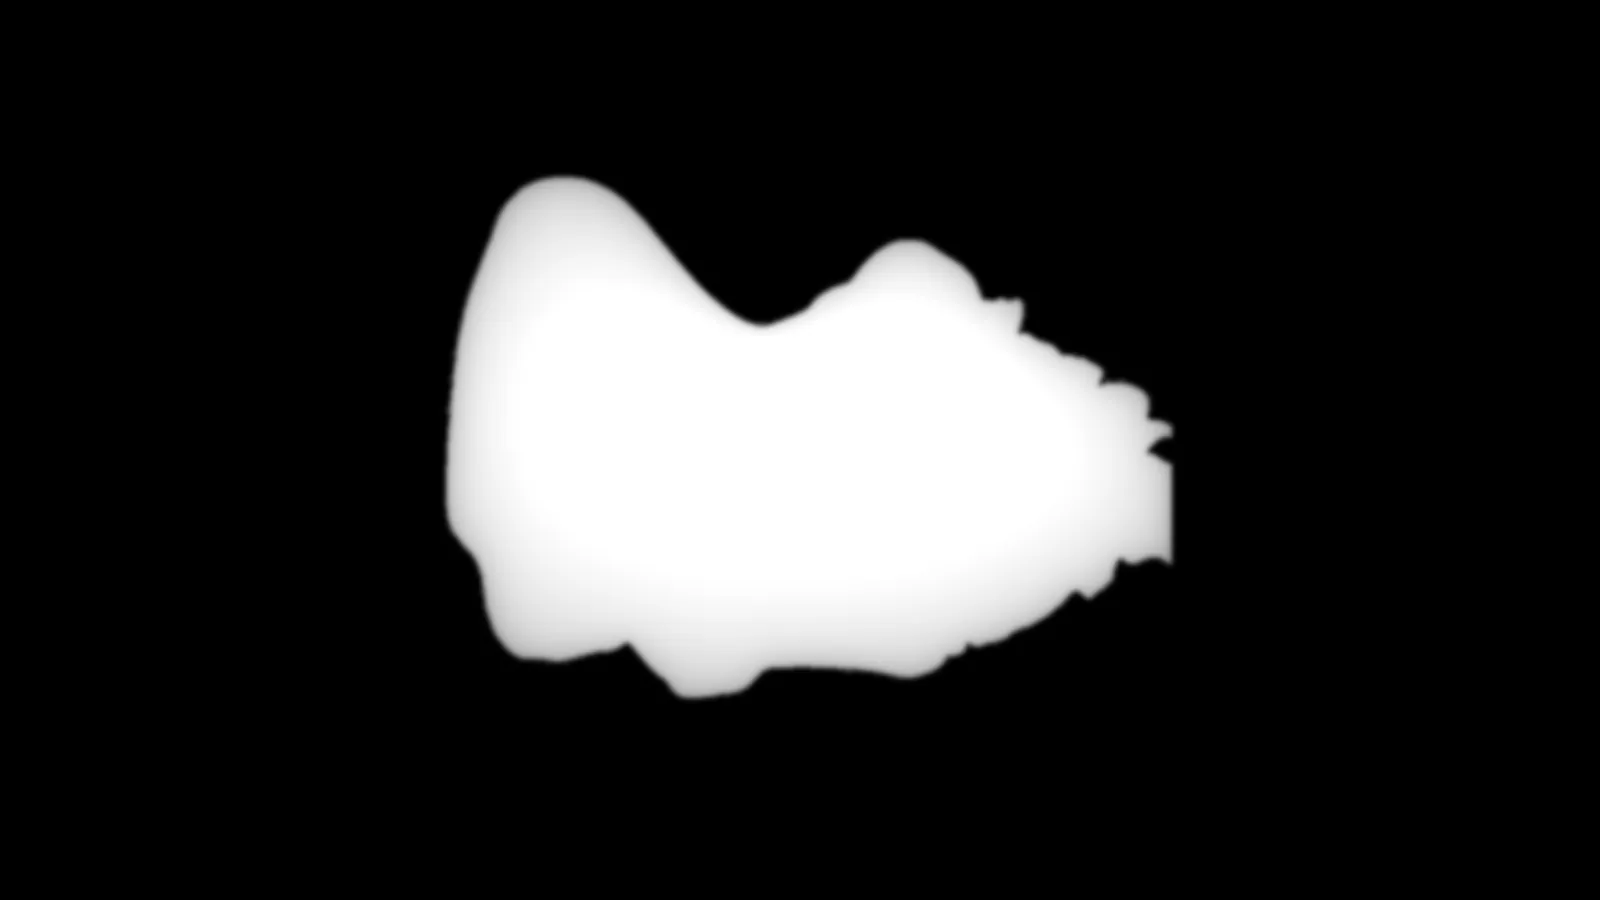
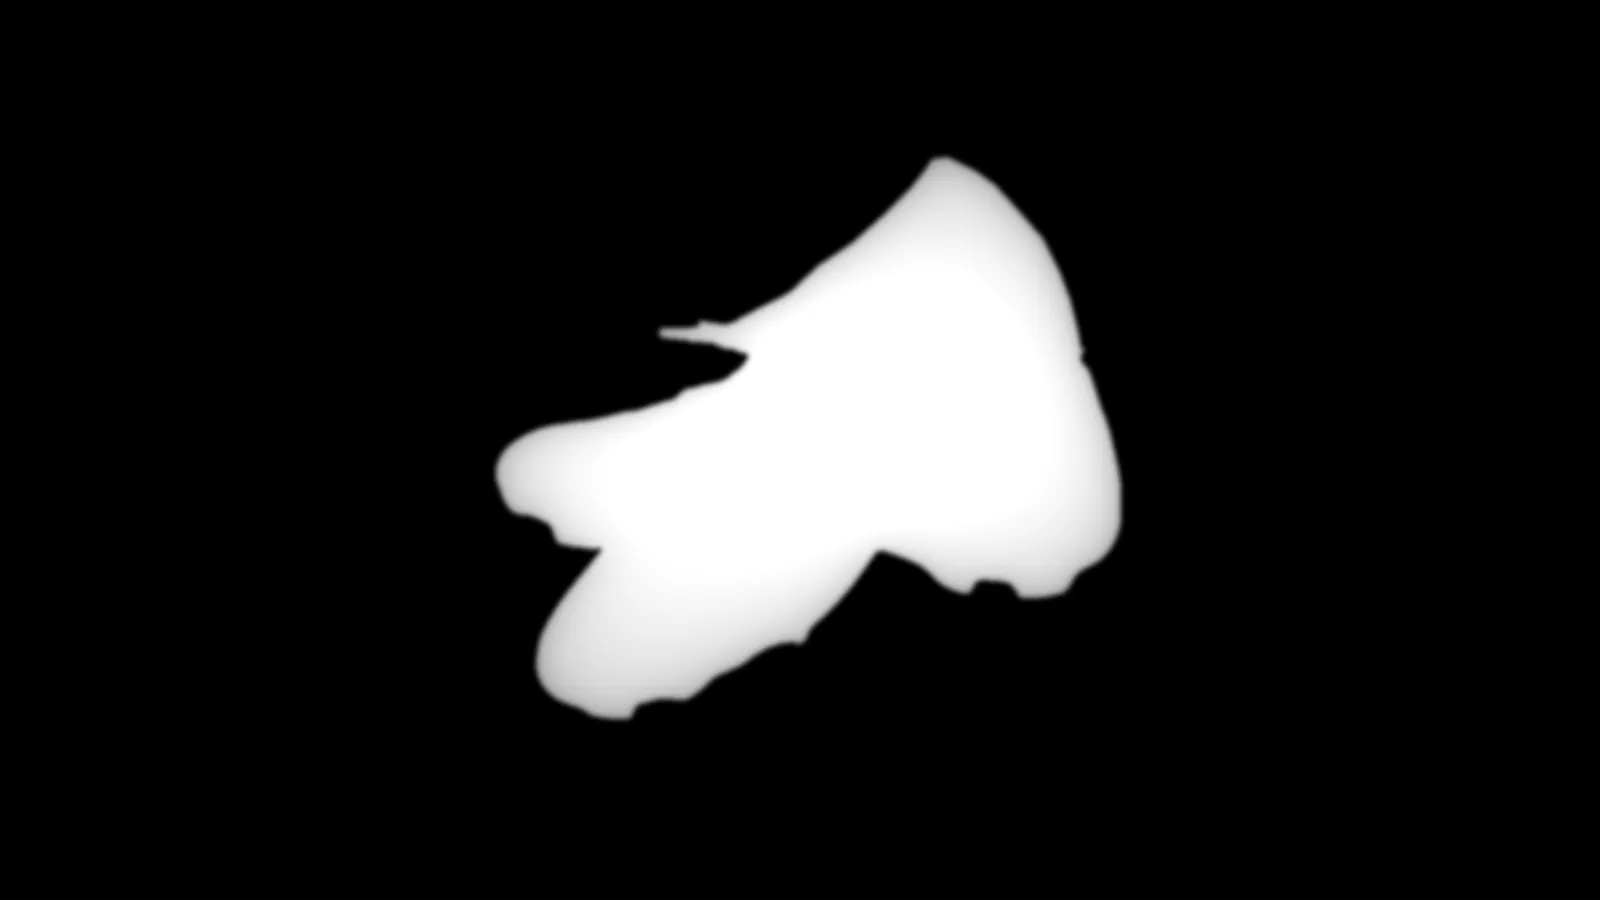
Home: full gold cleat for Northline, partner visual stays centred
- Northline slide uses a full pair of cleats (Pexels 27299906): cut out below
  the collar line so the ball behind is dropped, swooshes and print diffused
  away, gilded; the old asset was cropped at the toe in its source photo.
- Partnership visuals are re-posed from the wrapper's position on every
  scroll update while it is on screen (like the reference's rAF loop); a
  one-off onLeave left them 18% low.

Changed region(s): [[0.25, 0.1556, 0.75, 0.8089]]

diff --git a/apps/web/src/components/home/partnerships.ts b/apps/web/src/components/home/partnerships.ts
@@ -159,7 +159,6 @@ function initStage() {
         if (!reduced) {
           const e = Math.min(1, (p * (S - 100)) / 30);
           root.style.setProperty('--p-settle', settle(15 * (1 - e) * (1 - e)));
-          gsap.set(heroes, { y: 0, yPercent: 18 * (1 - e) * (1 - e) });
         }
         if (s.isActive) themeOn(true);
         navClip(0);
@@ -207,7 +206,9 @@ function initStage() {
     else { const e = Math.min(1, ((-top / h) * 100) / 30); yp = 18 * (1 - e) * (1 - e); }
     gsap.set(heroes, { y: 0, yPercent: reduced ? 0 : yp, opacity: 1 });
   };
-  ScrollTrigger.create({ trigger: wrap, start: 'top bottom', end: 'top top', onUpdate: () => { rise(); alignGrain(); }, onLeave: () => gsap.set(heroes, { yPercent: 18 }), onLeaveBack: () => gsap.set(heroes, { yPercent: 100 }) });
+  // One trigger for the whole time the wrapper is on screen (the reference re-poses
+  // in a rAF loop): rise() is a pure function of the wrapper's top edge.
+  ScrollTrigger.create({ trigger: wrap, start: 'top bottom', end: 'bottom top', onUpdate: () => { rise(); alignGrain(); }, onRefresh: rise });
   rise();
 
   // Pebble backdrop under the stage while it's on screen (hides the page bg seams).

diff --git a/apps/web/src/content/home.ts b/apps/web/src/content/home.ts
@@ -67,7 +67,7 @@ export const partnerships: { heading: string; cta: { label: string; href: string
       name: 'Northline',
       description:
         'The signature partnership. Nico is the face of Northline football — custom game-day cleats, design sessions at the Northline lab in Harbor City, and a hand in the gear the next generation will wear.',
-      art: { kind: 'depth', src: m('home/partner-cleat.webp'), depth: m('home/partner-cleat-depth.webp'), aspect: 16 / 9, width: 'min(calc(var(--page-w) * 0.96), calc(170 * var(--ht-u)))', alt: 'The gold Northline signature cleat' },
+      art: { kind: 'depth', src: m('home/partner-cleat.webp'), depth: m('home/partner-cleat-depth.webp'), aspect: 16 / 9, width: 'min(calc(var(--page-w) * 0.84), calc(148 * var(--ht-u)))', alt: 'The gold Northline signature cleat' },
     },
     {
       name: 'Kestrel',

diff --git a/apps/web/scripts/gen-partner-art.py b/apps/web/scripts/gen-partner-art.py
@@ -2,7 +2,8 @@
 
   python apps/web/scripts/gen-partner-art.py [<pexels-dir>]
 
-With <pexels-dir> (holding photos/<id>.jpg, see MEDIA.md) it also builds
+With <pexels-dir> (holding photos/<id>.jpg, see MEDIA.md) the cleat comes from
+Pexels 27299906 (full pair, marks removed, gilded) instead of cleats/cleat-gold, and it builds
 home/partner-halo.webp (white headphones, Pexels 3394666) and
 home/partner-volta.webp (profile in sunglasses, Pexels 34198837; chest patch
 painted out) as rembg (BiRefNet) cut-outs.
@@ -46,10 +47,50 @@ def depth_from_alpha(a, bulge_at=None, bulge_r=0.25):
     return Image.fromarray((d * 255).astype(np.uint8)).filter(ImageFilter.GaussianBlur(2.5))
 
 
-def cleat():
+def cleat_source(src_dir):
+    """Full pair of cleats from Pexels 27299906: BiRefNet cut-out clipped below the
+    collar line (drops the ball behind), maker marks diffused away."""
+    from rembg import remove, new_session
+    im = Image.open(os.path.join(src_dir, "photos", "27299906.jpg")).convert("RGB")
+    W0, H0 = im.size
+    # Inpaint the swooshes / print: dark pixels in these boxes are filled by diffusion.
+    boxes = [(1450, 1500, 2000, 2250), (1500, 1700, 1580, 1850), (1940, 1330, 2110, 1580), (760, 2400, 1060, 2550), (1700, 2150, 2040, 2440)]
+    arr = np.asarray(im).astype(np.float32)
+    lum = arr @ np.array([0.3, 0.59, 0.11], np.float32)
+    mask = np.zeros(lum.shape, bool)
+    for x0, y0, x1, y1 in boxes:
+        mask[y0:y1, x0:x1] |= lum[y0:y1, x0:x1] < 110
+    m = Image.fromarray((mask * 255).astype(np.uint8)).filter(ImageFilter.MaxFilter(9))
+    mk = np.asarray(m) > 0
+    fill = arr.copy()
+    fill[mk] = np.nan
+    # Diffusion: repeatedly average known neighbours into the hole.
+    for _ in range(220):
+        pad = np.pad(fill, ((1, 1), (1, 1), (0, 0)), mode="edge")
+        nb = np.stack([pad[:-2, 1:-1], pad[2:, 1:-1], pad[1:-1, :-2], pad[1:-1, 2:]])
+        avg = np.nanmean(nb, axis=0)
+        upd = np.isnan(fill) & ~np.isnan(avg)
+        fill[upd] = avg[upd]
+        fill[mk] = np.where(np.isnan(avg[mk]), fill[mk], 0.6 * fill[mk] + 0.4 * avg[mk])
+    fill = np.nan_to_num(fill, nan=200)
+    im = Image.fromarray(fill.clip(0, 255).astype(np.uint8))
+    out = remove(im, session=new_session("birefnet-general"), post_process_mask=True)
+    keep = Image.new("L", (W0, H0), 0)
+    ImageDraw.Draw(keep).polygon([(0, 1700), (796, 1700), (1000, 1731), (1206, 1625), (1300, 1537), (1412, 1462), (1525, 1362), (1600, 1287),
+        (1650, 1225), (1675, 1187), (1725, 1181), (1812, 1225), (1875, 1269), (1950, 1350), (2037, 1450), (2087, 1550), (2125, 1650),
+        (2150, 1750), (2160, 1810), (W0, 1810), (W0, H0), (0, H0)], fill=255)
+    a = np.minimum(np.asarray(out.getchannel("A")), np.asarray(keep.filter(ImageFilter.GaussianBlur(2))))
+    out.putalpha(Image.fromarray(a))
+    return out.crop(out.getbbox())
+
+
+def cleat(src_dir=None):
     W, H = 1600, 900
-    src = Image.open(os.path.join(ROOT, "cleats", "cleat-gold.webp")).convert("RGBA")
-    src = src.crop(src.getbbox())
+    if src_dir:
+        src = cleat_source(src_dir)
+    else:
+        src = Image.open(os.path.join(ROOT, "cleats", "cleat-gold.webp")).convert("RGBA")
+        src = src.crop(src.getbbox())
     l, t, r, b = 0.279, 0.174, 0.267, 0.2
     bw, bh = int(W * (1 - l - r)), int(H * (1 - t - b))
     s = min(bw / src.size[0], bh / src.size[1])
@@ -61,6 +102,8 @@ def cleat():
     lo, hi = np.percentile(lum[arr[..., 3] > 0.5], [3, 99])
     k = np.clip((lum - lo) / max(1e-3, hi - lo), 0, 1)
     k = k * k * (3 - 2 * k)
+    if src_dir:
+        k = k ** 2.1  # the pink pair is uniformly light: push its mid-tones into the gold
     stops = np.array([[0.16, 0.08, 0.01], [0.55, 0.33, 0.05], [0.86, 0.64, 0.2], [1.0, 0.88, 0.52], [1.0, 0.98, 0.86]], np.float32)
     pos = np.linspace(0, 1, len(stops))
     rgb = np.stack([np.interp(k, pos, stops[:, c]) for c in range(3)], -1)
@@ -192,7 +235,7 @@ def volta(src_dir):
 
 if __name__ == "__main__":
     import sys
-    cleat()
+    cleat(sys.argv[1] if len(sys.argv) > 1 else None)
     forge()
     if len(sys.argv) > 1:
         halo(sys.argv[1])

diff --git a/apps/web/MEDIA.md b/apps/web/MEDIA.md
@@ -38,6 +38,7 @@ and `<dir>/video/<id>.mp4` are the originals below (cut-outs use rembg 2.0.50, m
 | cleats c01–c10, cleat-gold | 32573999, 32574015, 32574010 (cut-outs + hue-rotated / gilded colourways) |
 | hero/portrait (Home) | 9573696 |
 | home/partner-halo, home/partner-volta (Home) | 3394666, 34198837 |
+| home/partner-cleat (Home) | 27299906 |
 
 Photo URLs: `https://www.pexels.com/photo/<id>/` · video: `https://www.pexels.com/video/<id>/`
 
@@ -48,7 +49,7 @@ Photo URLs: `https://www.pexels.com/photo/<id>/` · video: `https://www.pexels.c
 | cards/card-01–05.webp | `scripts/gen-cards.py` | trading cards: rembg cut-out of existing photos (career, r10, reel-02, r16, reel-03) on a violet field, gold dust, bevelled gold frame |
 | hero/portrait.webp, portrait-depth.webp, portrait-lens.webp | `scripts/gen-hero.py` | WebGL depth portrait from Pexels 9573696 (top 62% of the frame, BiRefNet cut-out): `python apps/web/scripts/gen-hero.py hero-src.jpg "0.4428,0.4467,0.0438,0.045;0.5727,0.4512,0.0466,0.0442" --cutout --fill=0.88 --center=0.5078`, then paste the printed `lensCenter` into `content/home.ts` |
 | home/partner-halo.webp, home/partner-volta.webp | `scripts/gen-partner-art.py <pexels-dir>` | BiRefNet cut-outs of Pexels 3394666 (headphones, backdrop inside the band flooded out) and 34198837 (printed chest patch painted out) |
-| home/partner-cleat.webp (+ -depth) | `scripts/gen-partner-art.py` | cleat-gold cut-out on a 16:9 canvas for the depth slide |
+| home/partner-cleat.webp (+ -depth) | `scripts/gen-partner-art.py <pexels-dir>` | full pair of cleats from Pexels 27299906: BiRefNet cut-out clipped below the collar (ball removed), maker marks diffused away, gilded, on a 16:9 canvas for the depth slide (without the dir it falls back to cleats/cleat-gold, which is cropped at the toe) |
 | home/partner-forge.webp | `scripts/gen-partner-art.py` | procedural FORGE packaging (photos r10, career, reel-02) |
 | ../textures/light-wash.webp, light-spot.webp, paper-grain.webp | `scripts/gen-lights.py` | soft-light window washes, instant-photo paper grain |
 | ../svg/word-nico.svg, word-valtier.svg, wordmark.svg | `scripts/gen-wordmarks.py` | outlined from Audiowide / Saira (OFL) |
